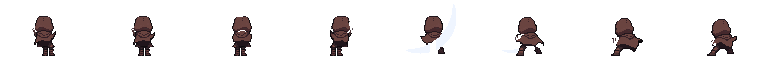
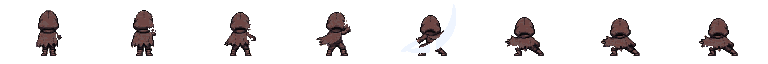
feat: 후면 1타를 정면 8장을 뒤에서 본 ChatGPT 그림으로
사용자: PixelLab 후면은 허리·다리가 따로 놀고(덧댄 다리) 어정쩡함. PixelLab 골격 애니메이션은 얼굴을 그려 실패.
ChatGPT 가 정면 1타 8장을 같은 순간 뒤에서 본 모습으로 그린 8장을 픽셀 덩어리 가운데 색으로 줄여 쓰고,
판정 장에 큰 초승달 잔상을 겹친다. 그림에 내디딤이 들어 있어 따로 옮기지 않는다.

diff --git a/game/config.py b/game/config.py
@@ -194,11 +194,10 @@ PLAYER_ATTACK_FRAME_SHIFTS_FRONT = (
 # export_to_game.py 가 뽑은 값. 두 손이 몸 앞(보는 사람 반대쪽)이라 칼은 늘 몸 뒤에 그려 몸 밖으로 나온 부분만 보인다.
 # 다섯째 값 0 = 칼이 몸에 완전히 가려지는 장 (그리지 않음: 서기, 1타 내려베는 잔상만 있는 장 등).
 PLAYER_ATTACK_SWORD_BACK = (
-    # 1타 (2026-11-18 사용자 지적 여러 번 끝에): PixelLab 이 1타 전체를 한 번에 이어 그린 8장. 왼쪽 아래에서 칼을 휘돌려
-    # 오른쪽 어깨 위로 → 5번째(판정)에 잔상과 함께 내려벰 → 왼쪽 아래 마무리. 측면과 같은 8장 같은 간격.
-    # 7차 (사용자: 정면처럼 칼을 왼쪽에서 오른쪽으로 자연스럽게 옮긴 뒤 베야 함): 왼쪽에 세운 칼을 머리 위로 넘겨 오른쪽 위 → 0.5 에 내려벰
-    ((35, 33, 109, True), (38, 33, 109, True), (50, 33, 94, True), (61, 33, 75, True),
-     (48, 27, -90, True, 0), (45, 37, -176, True), (43, 39, -163, True), (44, 40, -159, True)),
+    # 1타 (2026-11-18 사용자: PixelLab 후면은 허리·다리가 따로 놀고 어정쩡함): ChatGPT 가 정면 1타 8장을 "뒤에서 본 같은 순간"으로
+    # 그린 그림. 오른쪽에 든 칼을 오른쪽 어깨 위로 → 5번째(판정)에 크게 내디디며 왼쪽 아래로 벰(초승달 잔상) → 낮게 마무리.
+    ((55, 39, 42, True), (55, 33, 63, True), (56, 41, 80, True, 0.4), (57, 28, 69, True),
+     (48, 27, -90, True, 0), (39, 43, -151, True), (39, 43, -151, True), (41, 43, -151, True)),
     ((48, 27, -90, True, 0), (50, 36, -143, True), (43, 43, -152, True), (56, 31, 60, True),
      (49, 24, 88, True), (47, 28, 64, True), (50, 34, 77, True), (48, 27, -90, True, 0)),
     ((48, 27, -90, True, 0), (54, 37, 90, True), (54, 37, 90, True), (51, 27, 87, True),
@@ -213,7 +212,7 @@ PLAYER_ATTACK_FRAME_ENDS_BACK = (
 )
 # 후면 그림 옮김 (원본 픽셀, (앞쪽 +, 위쪽 +)): 1타 내려벨 때 몸을 앞(화면 위)으로 2픽셀 내디딤 (베는 느낌, 2026-11-18).
 PLAYER_ATTACK_FRAME_SHIFTS_BACK = (
-    ((0, 0), (0, 0), (0, 0), (0, 0), (0, 3), (0, 3), (0, 2), (0, 1)),  # 1타: 내려벨 때 3픽셀 내디딤 (같은 날 2 → 3)
+    ((0, 0),) * 8,  # 1타: ChatGPT 그림에 내디딤이 들어 있어 옮기지 않음 (3차)
     ((0, 0),) * 8,
     ((0, 0),) * 8,
 )
